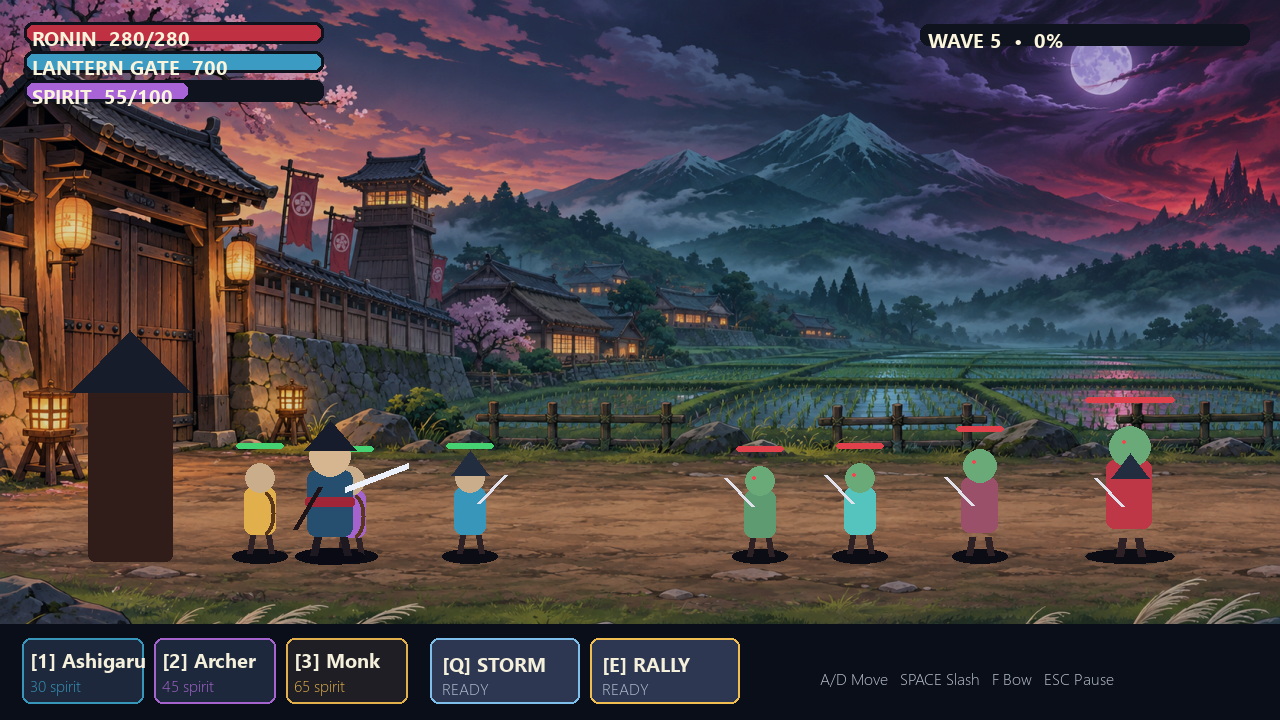
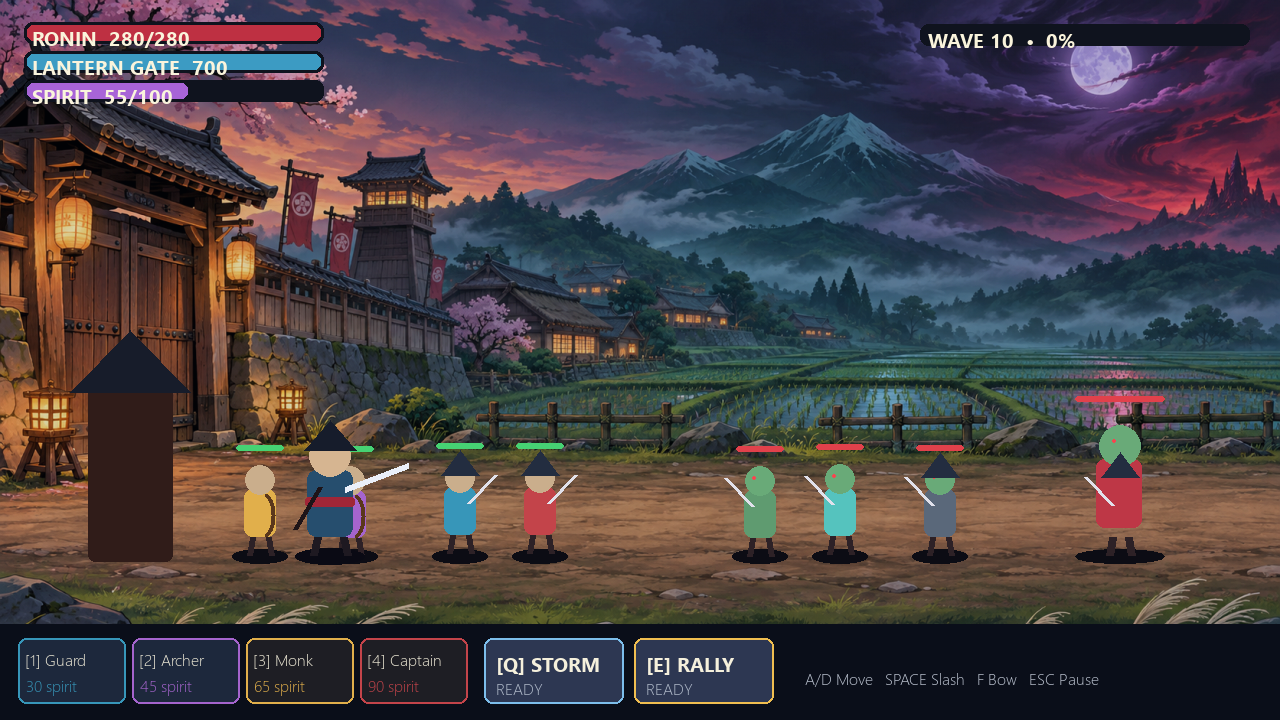
expand combat and add career achievements

diff --git a/game.py b/game.py
@@ -19,6 +19,14 @@ DIFFICULTIES = {
     "normal": {"label": "NORMAL", "enemy": 1.0, "reward": 1.0},
     "nightmare": {"label": "NIGHTMARE", "enemy": 1.32, "reward": 1.35},
 }
+ACHIEVEMENTS = {
+    "first_blood": ("First Blood", "Defeat your first enemy", 25),
+    "horde_breaker": ("Horde Breaker", "Defeat 100 enemies", 150),
+    "banner_caller": ("Banner Caller", "Summon 50 allies", 125),
+    "village_veteran": ("Village Veteran", "Win 15 battles", 250),
+    "deep_night": ("Deep Night", "Clear Endless Night 5", 225),
+    "master_smith": ("Master Smith", "Buy 15 forge levels", 200),
+}
 
 
 def resource_path(name):
@@ -32,12 +40,14 @@ def clamp(value, low, high):
 
 def load_save():
     default = {"unlocked": 1, "coins": 250, "difficulty": "normal", "endless_best": 0,
-               "upgrades": {"vitality": 0, "blade": 0, "bow": 0, "gate": 0, "spirit": 0}, "best": {}}
+               "upgrades": {"vitality": 0, "blade": 0, "bow": 0, "gate": 0, "spirit": 0}, "best": {},
+               "stats": {"kills": 0, "summons": 0, "wins": 0}, "achievements": []}
     try:
         with open(SAVE_FILE, "r", encoding="utf-8") as f:
             data = json.load(f)
-        default.update({k: data[k] for k in ("unlocked", "coins", "best", "difficulty", "endless_best") if k in data})
+        default.update({k: data[k] for k in ("unlocked", "coins", "best", "difficulty", "endless_best", "achievements") if k in data})
         default["upgrades"].update(data.get("upgrades", {}))
+        default["stats"].update(data.get("stats", {}))
     except (OSError, ValueError, TypeError):
         pass
     return default
@@ -142,6 +152,7 @@ UNIT_DATA = {
     "guard": dict(name="Ashigaru", cost=30, hp=150, dmg=18, speed=58, reach=42, rate=.85, ranged=False, color=(55, 150, 185)),
     "archer": dict(name="Moon Archer", cost=45, hp=82, dmg=20, speed=46, reach=235, rate=1.25, ranged=True, color=(165, 100, 205)),
     "monk": dict(name="Lantern Monk", cost=65, hp=105, dmg=8, speed=42, reach=150, rate=1.7, ranged=True, heal=True, color=(225, 175, 75)),
+    "captain": dict(name="Gate Captain", cost=90, hp=340, dmg=32, speed=38, reach=48, rate=1.15, ranged=False, color=(195, 68, 74)),
 }
 
 ENEMY_DATA = {
@@ -149,6 +160,7 @@ ENEMY_DATA = {
     "runner": dict(name="Wraith", hp=52, dmg=10, speed=75, reach=34, rate=.72, reward=10, color=(85, 195, 190)),
     "brute": dict(name="Ogre", hp=260, dmg=28, speed=25, reach=48, rate=1.45, reward=22, color=(155, 80, 105)),
     "shaman": dict(name="Hexer", hp=95, dmg=16, speed=30, reach=220, rate=1.65, reward=17, ranged=True, color=(128, 85, 170)),
+    "armored": dict(name="Iron Revenant", hp=430, dmg=24, speed=18, reach=44, rate=1.25, reward=34, color=(90, 104, 122)),
     "boss": dict(name="Dread Daimyo", hp=1150, dmg=42, speed=21, reach=58, rate=1.2, reward=125, color=(190, 55, 70), boss=True),
 }
 
@@ -237,7 +249,7 @@ class Fighter:
             pygame.draw.arc(surf, (90, 55, 28), (x + facing * 4 - 11, y - 62, 22, 44), -math.pi / 2, math.pi / 2, 3)
         else:
             pygame.draw.line(surf, (225, 225, 235), (x + facing * 8, y - 50), (x + facing * 35, y - 78), 4)
-        if self.kind in ("guard", "boss"):
+        if self.kind in ("guard", "captain", "armored", "boss"):
             pygame.draw.polygon(surf, (35, 45, 64), [(x - 19, y - 78), (x, y - 103), (x + 19, y - 78)])
         bar_w = 48 if not self.boss else 90
         pygame.draw.rect(surf, (30, 24, 33), (x - bar_w // 2, y - int(110 * scale), bar_w, 6), border_radius=3)
@@ -352,7 +364,7 @@ class Battle:
         self.shake = 0
         self.lightning_cd = 0
         self.rally_cd = 0
-        self.summon_cooldowns = {"guard": 0, "archer": 0, "monk": 0}
+        self.summon_cooldowns = {"guard": 0, "archer": 0, "monk": 0, "captain": 0}
         self.result_timer = 0
         self.earned = 0
 
@@ -363,9 +375,10 @@ class Battle:
         if wave >= 2: options += ["runner"]
         if wave >= 4: options += ["brute"]
         if wave >= 6: options += ["shaman"]
+        if wave >= 8: options += ["armored"]
         queue = []
         for i in range(count):
-            weights = [50 if k == "walker" else 24 if k == "runner" else 14 if k == "brute" else 12 for k in options]
+            weights = [50 if k == "walker" else 24 if k == "runner" else 14 if k == "brute" else 9 if k == "armored" else 12 for k in options]
             queue.append(rng.choices(options, weights=weights)[0])
         if wave % 5 == 0:
             queue.append("boss")
@@ -376,7 +389,8 @@ class Battle:
         if self.spirit >= data["cost"] and self.summon_cooldowns[kind] <= 0 and len(self.allies) < 12 and self.state == "playing":
             self.spirit -= data["cost"]
             self.allies.append(Fighter(kind, 210, "ally", 1 + self.wave * .012))
-            self.summon_cooldowns[kind] = {"guard": 2.2, "archer": 3.6, "monk": 6.5}[kind]
+            self.summon_cooldowns[kind] = {"guard": 2.2, "archer": 3.6, "monk": 6.5, "captain": 9.5}[kind]
+            self.game.add_stat("summons")
             self.sounds.play("summon")
             for _ in range(10): self.particles.append(Particle(210, GROUND_Y - 45, data["color"], "orb"))
 
@@ -405,15 +419,16 @@ class Battle:
             elif event.key == pygame.K_1: self.summon("guard")
             elif event.key == pygame.K_2: self.summon("archer")
             elif event.key == pygame.K_3: self.summon("monk")
+            elif event.key == pygame.K_4: self.summon("captain")
             elif event.key == pygame.K_q: self.lightning()
             elif event.key == pygame.K_e: self.rally()
         if event.type == pygame.MOUSEBUTTONDOWN and event.button == 1:
             mx, my = event.pos
-            buttons = [(22, "guard"), (154, "archer"), (286, "monk")]
+            buttons = [(18, "guard"), (132, "archer"), (246, "monk"), (360, "captain")]
             for x, kind in buttons:
-                if pygame.Rect(x, 638, 122, 66).collidepoint(mx, my): self.summon(kind)
-            if pygame.Rect(430, 638, 150, 66).collidepoint(mx, my): self.lightning()
-            if pygame.Rect(590, 638, 150, 66).collidepoint(mx, my): self.rally()
+                if pygame.Rect(x, 638, 108, 66).collidepoint(mx, my): self.summon(kind)
+            if pygame.Rect(484, 638, 140, 66).collidepoint(mx, my): self.lightning()
+            if pygame.Rect(634, 638, 140, 66).collidepoint(mx, my): self.rally()
 
     def update(self, dt):
         if self.state == "intro":
@@ -449,6 +464,7 @@ class Battle:
         for e in list(self.enemies):
             if not e.alive:
                 self.killed += 1
+                self.game.add_stat("kills")
                 self.earned += int(e.reward * self.difficulty["reward"])
                 self.sounds.play("coin")
                 self.enemies.remove(e)
@@ -464,11 +480,13 @@ class Battle:
             bonus = int((35 + self.wave * 14 + stars * 15) * self.difficulty["reward"])
             self.earned += bonus
             self.game.save["coins"] += self.earned
+            self.game.add_stat("wins")
             if self.endless:
                 self.game.save["endless_best"] = max(self.game.save.get("endless_best", 0), self.wave)
             else:
                 self.game.save["unlocked"] = max(self.game.save["unlocked"], min(15, self.wave + 1))
                 self.game.save["best"][str(self.wave)] = max(stars, self.game.save["best"].get(str(self.wave), 0))
+            self.game.check_achievements()
             save_data(self.game.save)
 
     def bar(self, surf, x, y, w, value, maximum, color, label, font):
@@ -508,16 +526,16 @@ class Battle:
 
     def draw_hud(self, surf):
         pygame.draw.rect(surf, (10, 14, 25, 235), (0, 624, WIDTH, 96))
-        boxes = [(22, "1", "guard", "Ashigaru", 30, (55,150,185)), (154, "2", "archer", "Archer", 45, (165,100,205)), (286, "3", "monk", "Monk", 65, (225,175,75))]
+        boxes = [(18, "1", "guard", "Guard", 30, (55,150,185)), (132, "2", "archer", "Archer", 45, (165,100,205)), (246, "3", "monk", "Monk", 65, (225,175,75)), (360, "4", "captain", "Captain", 90, (195,68,74))]
         for x, key, kind, name, cost, color in boxes:
-            rect = pygame.Rect(x, 638, 122, 66)
+            rect = pygame.Rect(x, 638, 108, 66)
             ready = self.spirit >= cost and self.summon_cooldowns[kind] <= 0
             pygame.draw.rect(surf, (29, 40, 60) if ready else (30,30,36), rect, border_radius=8)
             pygame.draw.rect(surf, color, rect, 2, border_radius=8)
-            surf.blit(self.game.font_small.render(f"[{key}] {name}", True, (245,240,220)), (x+8, 646))
+            surf.blit(self.game.font_tiny.render(f"[{key}] {name}", True, (245,240,220)), (x+7, 648))
             status = f"{self.summon_cooldowns[kind]:.1f}s" if self.summon_cooldowns[kind] > 0 else f"{cost} spirit"
             surf.blit(self.game.font_tiny.render(status, True, color), (x+8, 674))
-        abilities = [(430, "Q", "STORM", self.lightning_cd, 150), (590, "E", "RALLY", self.rally_cd, 150)]
+        abilities = [(484, "Q", "STORM", self.lightning_cd, 140), (634, "E", "RALLY", self.rally_cd, 140)]
         for x, key, name, cd, w in abilities:
             rect = pygame.Rect(x, 638, w, 66)
             pygame.draw.rect(surf, (45,55,82), rect, border_radius=8)
@@ -526,7 +544,7 @@ class Battle:
             surf.blit(self.game.font_small.render(label, True, (245,240,220)), (x+12, 650))
             surf.blit(self.game.font_tiny.render("READY" if cd <= 0 else "RECHARGING", True, (180,190,205)), (x+12, 677))
         controls = self.game.font_tiny.render("A/D Move   SPACE Slash   F Bow   ESC Pause", True, (190, 197, 210))
-        surf.blit(controls, (820, 667))
+        surf.blit(controls, (805, 667))
 
     def draw_result(self, surf):
         shade = pygame.Surface((WIDTH, HEIGHT), pygame.SRCALPHA); shade.fill((5, 7, 15, 180)); surf.blit(shade, (0,0))
@@ -589,7 +607,8 @@ class Game:
             Button((490, 318, 300, 56), "CONTINUE CAMPAIGN", "continue", True),
             Button((490, 386, 300, 52), "CHOOSE WAVE", "waves"),
             Button((490, 450, 300, 52), "ENDLESS NIGHT", "endless"),
-            Button((490, 514, 300, 52), "UPGRADES", "upgrades"),
+            Button((490, 514, 145, 52), "UPGRADES", "upgrades"),
+            Button((645, 514, 145, 52), "ACHIEVEMENTS", "achievements"),
             Button((490, 578, 145, 48), "HOW TO PLAY", "help"),
             Button((645, 578, 145, 48), "QUIT", "quit"),
         ]
@@ -600,6 +619,7 @@ class Game:
         elif action == "waves": self.state = "waves"
         elif action == "endless": self.start_wave(16, endless=True)
         elif action == "upgrades": self.state = "upgrades"
+        elif action == "achievements": self.state = "achievements"
         elif action == "help": self.state = "help"
         elif action == "quit": self.running = False
 
@@ -613,6 +633,32 @@ class Game:
         self.save["difficulty"] = choices[(choices.index(current) + 1) % len(choices)]
         save_data(self.save)
         self.sounds.play("click")
+
+    def add_stat(self, name, amount=1):
+        self.save["stats"][name] = self.save["stats"].get(name, 0) + amount
+        self.check_achievements()
+
+    def check_achievements(self):
+        stats = self.save["stats"]
+        upgrade_total = sum(self.save["upgrades"].values())
+        conditions = {
+            "first_blood": stats.get("kills", 0) >= 1,
+            "horde_breaker": stats.get("kills", 0) >= 100,
+            "banner_caller": stats.get("summons", 0) >= 50,
+            "village_veteran": stats.get("wins", 0) >= 15,
+            "deep_night": self.save.get("endless_best", 0) >= 20,
+            "master_smith": upgrade_total >= 15,
+        }
+        claimed = self.save["achievements"]
+        for key, earned in conditions.items():
+            if earned and key not in claimed:
+                claimed.append(key)
+                name, _, reward = ACHIEVEMENTS[key]
+                self.save["coins"] += reward
+                self.toast = f"Achievement: {name}  +{reward} coins"
+                self.toast_timer = 3.0
+                self.sounds.play("win")
+        save_data(self.save)
 
     def handle_event(self, e):
         if e.type == pygame.QUIT: self.running = False
@@ -645,6 +691,7 @@ class Game:
                 if r.collidepoint(e.pos) and lvl < 5:
                     if self.save["coins"] >= cost:
                         self.save["coins"] -= cost; self.save["upgrades"][key] += 1; save_data(self.save); self.sounds.play("coin")
+                        self.check_achievements()
                     else: self.toast = "Not enough coins"; self.toast_timer = 1.5
         elif self.state == "pause" and e.type == pygame.MOUSEBUTTONDOWN and e.button == 1:
             if pygame.Rect(490,330,300,58).collidepoint(e.pos): self.state="battle"
@@ -663,7 +710,7 @@ class Game:
         coins = self.font_small.render(f"COINS  {self.save['coins']}", True, (246,194,86)); self.canvas.blit(coins,(25,25))
         difficulty = DIFFICULTIES[self.save.get("difficulty", "normal")]["label"]
         Button((1015,22,235,48), f"DIFFICULTY: {difficulty}").draw(self.canvas, self.font_tiny, pygame.mouse.get_pos())
-        best = self.font_tiny.render(f"Endless best: Night {self.save.get('endless_best', 0) - 15}" if self.save.get("endless_best", 0) else "Endless best: —", True, (190,197,210))
+        best = self.font_tiny.render(f"Endless best: Night {self.save.get('endless_best', 0) - 15}" if self.save.get("endless_best", 0) else "Endless best: None", True, (190,197,210))
         self.canvas.blit(best, (1050, 82))
         self.center_text(self.canvas, "Campaign progress is saved automatically", self.font_tiny, 680, (170,180,196))
 
@@ -693,10 +740,28 @@ class Game:
             txt="MAX" if lvl>=5 else f"BUY  {cost}"; t=self.font_small.render(txt,True,(245,238,218)); self.canvas.blit(t,t.get_rect(center=r.center))
         self.center_text(self.canvas,"ESC  Back",self.font_small,630,(180,190,205))
 
+    def draw_achievements(self):
+        self.title_backdrop(); self.panel(self.canvas,pygame.Rect(205,72,870,590))
+        self.center_text(self.canvas,"ACHIEVEMENTS",self.font_big,125,(246,194,86))
+        stats = self.save["stats"]
+        summary = f"Enemies {stats.get('kills',0)}     Allies summoned {stats.get('summons',0)}     Battles won {stats.get('wins',0)}"
+        self.center_text(self.canvas,summary,self.font_tiny,168,(185,199,218))
+        for i,(key,(name,desc,reward)) in enumerate(ACHIEVEMENTS.items()):
+            y=205+i*66; earned=key in self.save["achievements"]
+            rect=pygame.Rect(275,y,730,52)
+            pygame.draw.rect(self.canvas,(44,70,67) if earned else (31,39,55),rect,border_radius=9)
+            pygame.draw.rect(self.canvas,(95,205,135) if earned else (92,102,120),rect,2,border_radius=9)
+            mark="✓" if earned else "◇"
+            self.canvas.blit(self.font_small.render(f"{mark}  {name}",True,(235,238,220)),(294,y+7))
+            self.canvas.blit(self.font_tiny.render(desc,True,(170,185,205)),(565,y+8))
+            reward_text="CLAIMED" if earned else f"{reward} coins"
+            self.canvas.blit(self.font_tiny.render(reward_text,True,(240,185,70)),(880,y+28))
+        self.center_text(self.canvas,"ESC  Back",self.font_small,630,(180,190,205))
+
     def draw_help(self):
         self.title_backdrop(); self.panel(self.canvas,pygame.Rect(210,90,860,540))
         self.center_text(self.canvas,"HOW TO PLAY",self.font_big,145,(246,194,86))
-        lines=[("MOVE","A / D or Left / Right"),("SWORD","SPACE or left mouse — strong at close range"),("BOW","F — ranged shot"),("SUMMON","1 Ashigaru  •  2 Archer  •  3 Monk"),("ABILITIES","Q Storm  •  E Rally heal"),("OBJECTIVE","Defeat every Hollow before your hero or gate falls."),("STRATEGY","Summons now have cooldowns, so timing matters."),("MODES","Clear 15 campaign waves, then test an endless run.")]
+        lines=[("MOVE","A / D or Left / Right"),("SWORD","SPACE or left mouse, strong at close range"),("BOW","F, ranged shot"),("SUMMON","1 Guard  •  2 Archer  •  3 Monk  •  4 Captain"),("ABILITIES","Q Storm  •  E Rally heal"),("OBJECTIVE","Defeat every Hollow before your hero or gate falls."),("STRATEGY","Summons have cooldowns, so timing matters."),("MODES","Clear 15 campaign waves, then test an endless run.")]
         for i,(a,b) in enumerate(lines):
             y=210+i*47; self.canvas.blit(self.font_small.render(a,True,(238,180,76)),(300,y)); self.canvas.blit(self.font_small.render(b,True,(232,230,222)),(475,y))
         self.center_text(self.canvas,"ESC  Back",self.font_small,595,(180,190,205))
@@ -712,6 +777,7 @@ class Game:
         if self.state=="menu": self.draw_menu()
         elif self.state=="waves": self.draw_waves()
         elif self.state=="upgrades": self.draw_upgrades()
+        elif self.state=="achievements": self.draw_achievements()
         elif self.state=="help": self.draw_help()
         elif self.state=="battle": self.battle.draw(self.canvas)
         elif self.state=="pause": self.draw_pause()

diff --git a/README.md b/README.md
@@ -1,36 +1,35 @@
 # Moonblade: Last Lantern
 
-Moonblade is a small hero-led lane defense game for Windows. You control a wandering ronin, fight the front line yourself, summon allies with a regenerating spirit meter, and protect the last village gate from an undead army.
+Moonblade is a small hero controlled lane defense game for Windows. You control a wandering ronin, fight the front line yourself, summon allies with a regenerating spirit meter, and protect the last village gate from an undead army.
 
 ![Moonblade battle](docs/battle.png)
 
-The project grew out of missing games such as *Samurai vs Zombies Defense* after they disappeared from modern storefronts. It is not a remake and does not use Glu's code, names, characters, audio, or extracted assets. The goal is to build a new game around the same combination of direct combat and lane-defense strategy.
+The project grew out of missing games such as *Samurai vs Zombies Defense* after they disappeared from modern storefronts. It is not a remake and does not use Glu's code, names, characters, audio, or extracted assets. The goal is to build a new game around the same combination of direct combat and lane defense strategy.
 
 ## What is playable
 
-- 15 campaign waves with persistent progress and star ratings
-- Endless Night mode after the main menu, with a saved personal record
-- Story, Normal, and Nightmare difficulty settings
-- controllable sword and bow combat
-- Ashigaru, Moon Archer, and Lantern Monk summons
-- summon cooldowns and a regenerating spirit resource
-- Storm and Rally active abilities
-- five enemy roles, including ranged attackers and recurring bosses
-- five permanent upgrade paths
-- automatic local saving
-- mouse and keyboard support
+* 15 campaign waves with persistent progress and star ratings
+* Endless Night mode after the main menu, with a saved personal record
+* Story, Normal, and Nightmare difficulty settings
+* controllable sword and bow combat
+* four summonable allies, including the Gate Captain
+* summon cooldowns and a regenerating spirit resource
+* Storm and Rally active abilities
+* six enemy roles, including Iron Revenants and recurring bosses
+* achievements with career statistics and coin rewards
+* five permanent upgrade paths
+* automatic local saving
+* mouse and keyboard support
 
 ## Controls
 
-| Action | Input |
-| --- | --- |
-| Move | `A` / `D` or arrow keys |
-| Sword attack | `Space` or left mouse button |
-| Fire bow | `F` |
-| Summon allies | `1`, `2`, `3` |
-| Storm ability | `Q` |
-| Rally heal | `E` |
-| Pause / back | `Esc` |
+* Move with `A`, `D`, or the arrow keys
+* Attack with the sword using `Space` or the left mouse button
+* Fire the bow with `F`
+* Summon allies with `1`, `2`, `3`, and `4`
+* Cast Storm with `Q`
+* Use Rally with `E`
+* Pause or return with `Esc`
 
 ## Run from source
 
@@ -53,10 +52,10 @@ The packaged game stores progress in `%LOCALAPPDATA%\MoonbladeDefense\save.json`
 
 ## Project status
 
-This is an early complete prototype rather than a commercial-size game. The current build has a full campaign loop, upgrades, bosses, difficulty options, and endless play. Future work can add animated sprite art, more allies, additional battlefields, controller support, and richer music and sound.
+This is an early complete prototype rather than a commercial size game. The current build has a full campaign loop, upgrades, bosses, difficulty options, achievements, and endless play. Future work can add animated sprite art, more allies, additional battlefields, controller support, and richer music and sound.
 
 ## License
 
 The source code is available under the MIT License. The painted battlefield image in `assets/` is included for use with this project; please do not redistribute it as a standalone asset pack.
 
-Moonblade is an independent fan-inspired project and is not affiliated with or endorsed by Glu Mobile or Electronic Arts.
+Moonblade is an independent project inspired by a missing game and is not affiliated with or endorsed by Glu Mobile or Electronic Arts.

diff --git a/CHANGELOG.md b/CHANGELOG.md
@@ -1,19 +1,28 @@
 # Changelog
 
-## 0.2.0 - 2026-11-06
+## 0.3.0, 2026 11 06
 
-- added Story, Normal, and Nightmare difficulty modes
-- added Endless Night mode and persistent best-night tracking
-- added per-unit summon cooldowns
-- added difficulty-based enemy and reward scaling
-- improved boss scheduling for runs beyond the campaign
-- cleaned up campaign and endless progression handling
-- added reproducible Windows build files and public project documentation
+* added the Gate Captain as a fourth summonable ally
+* added the Iron Revenant as a heavy late campaign enemy
+* added six achievements with automatic coin rewards
+* added persistent career totals for enemies, summons, and victories
+* added a dedicated achievement screen
+* refreshed the battle controls and public documentation
 
-## 0.1.0 - 2026-11-06
+## 0.2.0, 2026 11 06
 
-- initial 15-wave campaign
-- sword and bow combat
-- three summonable ally roles
-- five enemy roles and boss encounters
-- permanent upgrades, saving, abilities, sound, pause menu, and wave selection
+* added Story, Normal, and Nightmare difficulty modes
+* added Endless Night mode and persistent record tracking
+* added summon cooldowns for each unit
+* added difficulty based enemy and reward scaling
+* improved boss scheduling for runs beyond the campaign
+* cleaned up campaign and endless progression handling
+* added reproducible Windows build files and public project documentation
+
+## 0.1.0, 2026 11 06
+
+* initial 15 wave campaign
+* sword and bow combat
+* three summonable ally roles
+* five enemy roles and boss encounters
+* permanent upgrades, saving, abilities, sound, pause menu, and wave selection
